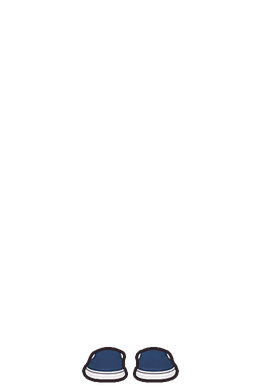
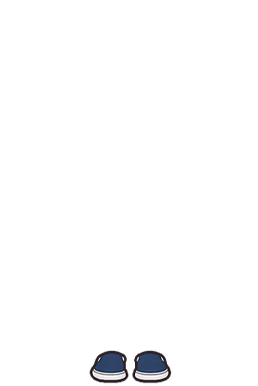
신발: 지우는 대신 크기를 줄임 (가로 84%·세로 90%, 바닥은 그대로) → 긴 바지 옆으로 안 튀어나오고 반바지에도 맞음
Claude-Session: https://claude.ai/code/session_015VxnKS3baGbwJXJNNp74ix

Changed region(s): [[0.3101, 0.9016, 0.7132, 0.9948]]

diff --git a/avatar.js b/avatar.js
@@ -40,9 +40,7 @@ const AV_ACC = []; // 장신구 칸 (아직 없음)
 const AV_TABS = [["eye", "눈"], ["mouth", "입"], ["cheek", "볼터치"], ["hair", "헤어"], ["top", "상의"], ["bottom", "하의"], ["full", "한벌"], ["shoes", "신발"], ["pet", "펫"]];
 const AV_FULL = new Set(["top-55", "top-56", "top-57", "top-58", "top-59", "top-60", "top-47", "top-48", "top-49", "top-50", "top-51", "top-52", "top-53", "top-54"]); // 위아래 한 벌 옷: 입으면 하의를 안 그림. 가게에서는 '한벌' 칸
 // 가게에서 뺀 옷: 몸에 꼭 맞지 않는 상의·하의 (이미 산 학생은 그대로 입고 있음. 번호는 그대로 둬야 산 기록이 안 꼬임)
-const AV_V = "?v=15"; // 그림을 고치면 숫자를 올림 (브라우저에 남은 옛 그림 대신 새로 받게)
-// 긴 바지 한벌의 바짓단 높이(px, 258×386 그림): 신발을 이 줄부터만 그려서 바지 옆으로 신발 윗부분이 안 튀어나오게 (av/top-N.png에서 잼)
-const AV_HEM = { 47: 357, 48: 357, 49: 354, 50: 355, 51: 356, 52: 357, 53: 357, 54: 356, 55: 363, 56: 367, 57: 361, 59: 361, 60: 364 };
+const AV_V = "?v=16"; // 그림을 고치면 숫자를 올림 (브라우저에 남은 옛 그림 대신 새로 받게)
 const AV_HIDE = new Set(["shoes-0", "shoes-9", ...[0, 1, 2, 3, 4, 5, 6, 7, 8, 9, 10, 11].map(i => "hair-" + i), ...[6, 16, 17, 18, 19, 20, 21, 22, 23, 26, 39, 40, 41, 42, 43, 24, 25, 27, 28, 29, 30, 31, 32, 33, 34, 35, 36, 37, 38, 44, 45, 46].map(i => "top-" + i),
   ...[7, 13, 14, 15, 17, 19, 20, 21, 22, 23, 27, 29, 32, 33, 34, 35, 36, 37, 38, 39].map(i => "bottom-" + i)]); // 하의: 긴 바지·롱스커트(안 맞음)와 비슷한 것 중 덜 맞는 쪽
 const avInTab = (it, k) => !AV_HIDE.has(it.id) && (k === "acc" ? AV_ACC.includes(it.slot) : k === "full" ? AV_FULL.has(it.id) : k === "top" ? it.slot === "top" && !AV_FULL.has(it.id) : it.slot === k); // 가게 칸에 보일 물건
@@ -66,6 +64,5 @@ function avPic(av, wear = {}) {
   const ck = avItem(w.cheek).img, cn = +w.cheek.split("-")[1];
   const cheekL = !cn ? "" : `<i style="background:${AV_CHEEK[cc][0]};-webkit-mask-image:url(${ck}${AV_V});mask-image:url(${ck}${AV_V})"></i>` + (AV_FRECK.includes(cn) ? img(ck.replace(".png", "-f.png")) : "");
   // .avp = 펫 칸(378×426), 그 안의 .avb = 아바타 칸(258×386, 위 40·왼쪽 60 띄움). 펫 그림은 펫 칸 크기
-  return `<div class="avp" aria-hidden="true"><div class="avb">${w.shoes !== "shoes-0" ? img(`av/base-${skin}.png`).replace("<img", '<img style="clip-path:inset(0 0 2.6% 0)"') : img(`av/base-${skin}.png`)}${cheekL}${w.shoes !== "shoes-0" ? (() => { const dy = +w.shoes.split("-")[1] <= 8 ? 4.6 : 0, hem = AV_FULL.has(w.top) && AV_HEM[+w.top.split("-")[1]]; // 옛 신발은 4.6px 내려 신김
-    return img(avItem(w.shoes).img).replace("<img", `<img style="transform:translateY(${dy / 3.86}%)${hem ? `;clip-path:inset(${((hem - 3 - dy) / 3.86).toFixed(2)}% 0 0 0)` : ""}"`); })() : ""}${[avItem(w.eye).img, avItem(w.mouth).img, !AV_FULL.has(w.top) && avItem(w.bottom).img, avItem(w.top).img].filter(Boolean).map(img).join("")}${hairL}${AV_EAR.has(+w.hair.split("-")[1]) ? img(`av/ear-${skin}.png`) : ""}</div>${w.pet !== "pet-0" ? img(avItem(w.pet).img) : ""}</div>`;
+  return `<div class="avp" aria-hidden="true"><div class="avb">${w.shoes !== "shoes-0" ? img(`av/base-${skin}.png`).replace("<img", '<img style="clip-path:inset(0 0 2.6% 0)"') : img(`av/base-${skin}.png`)}${cheekL}${w.shoes !== "shoes-0" ? img(avItem(w.shoes).img).replace("<img", +w.shoes.split("-")[1] <= 8 ? '<img style="transform:translateY(1.2%)"' : "<img") : ""}${[avItem(w.eye).img, avItem(w.mouth).img, !AV_FULL.has(w.top) && avItem(w.bottom).img, avItem(w.top).img].filter(Boolean).map(img).join("")}${hairL}${AV_EAR.has(+w.hair.split("-")[1]) ? img(`av/ear-${skin}.png`) : ""}</div>${w.pet !== "pet-0" ? img(avItem(w.pet).img) : ""}</div>`;
 }

diff --git a/index.html b/index.html
@@ -1633,7 +1633,7 @@
     <button class="danger" onclick="resetEverything()">모든 데이터 초기화</button>
   </section>
 </div>
-<script src="avatar.js?v=15"></script><!-- 아바타를 고치면 avatar.js의 AV_V와 같이 숫자를 올림 -->
+<script src="avatar.js?v=16"></script><!-- 아바타를 고치면 avatar.js의 AV_V와 같이 숫자를 올림 -->
 <script>
 setTimeout(() => document.body.classList.add("ready"), 2000); // 혹시 아래에서 오류가 나도 2초 뒤엔 카드를 보여 줌
 // 다른 창(듀얼 모니터)으로 뗀 카드: { 카드: { w: 창, c: 카드, mark: 보드에 돌아올 자리, np: 글자 도구 창 } }

diff --git a/student.html b/student.html
@@ -159,7 +159,7 @@
     </div>
   </div>
 </div>
-<script src="avatar.js?v=15"></script><!-- 아바타를 고치면 avatar.js의 AV_V와 같이 숫자를 올림 -->
+<script src="avatar.js?v=16"></script><!-- 아바타를 고치면 avatar.js의 AV_V와 같이 숫자를 올림 -->
 <script type="module">
 // 서버: classes/{반 코드} = { unit, prices } · classes/{반 코드}/kids/{번호}-{비밀번호} = { n, pt, av, wear, own, buys, kidAt } (이름 없음)
 // 점수는 선생님 보드만 바꿈. 가게 물건은 입어 보기만 하다가 저장할 때 삼(buys에 남김). 선생님 보드가 받아서 점수를 뺌

diff --git a/av/shoesize.py b/av/shoesize.py
@@ -1,0 +1,8 @@
+# 신발 크기 줄이기: 가로 84%(가운데 x=130 기준)·세로 90%(바닥 y=385 기준). 긴 바지 밑으로 옆이 안 튀어나오게
+import numpy as np; from PIL import Image
+SX, SY, CX, BY = .84, .90, 130, 385
+for k in range(1, 9):
+  im = Image.open(f'shoes-{k}.png').convert('RGBA')
+  # 출력 (x, y) ← 원본 ((x-CX)/SX+CX, (y-BY)/SY+BY)
+  out = im.transform(im.size, Image.AFFINE, (1 / SX, 0, CX - CX / SX, 0, 1 / SY, BY - BY / SY), resample=Image.BICUBIC)
+  out.save(f'shoes-{k}.png', optimize=True)
